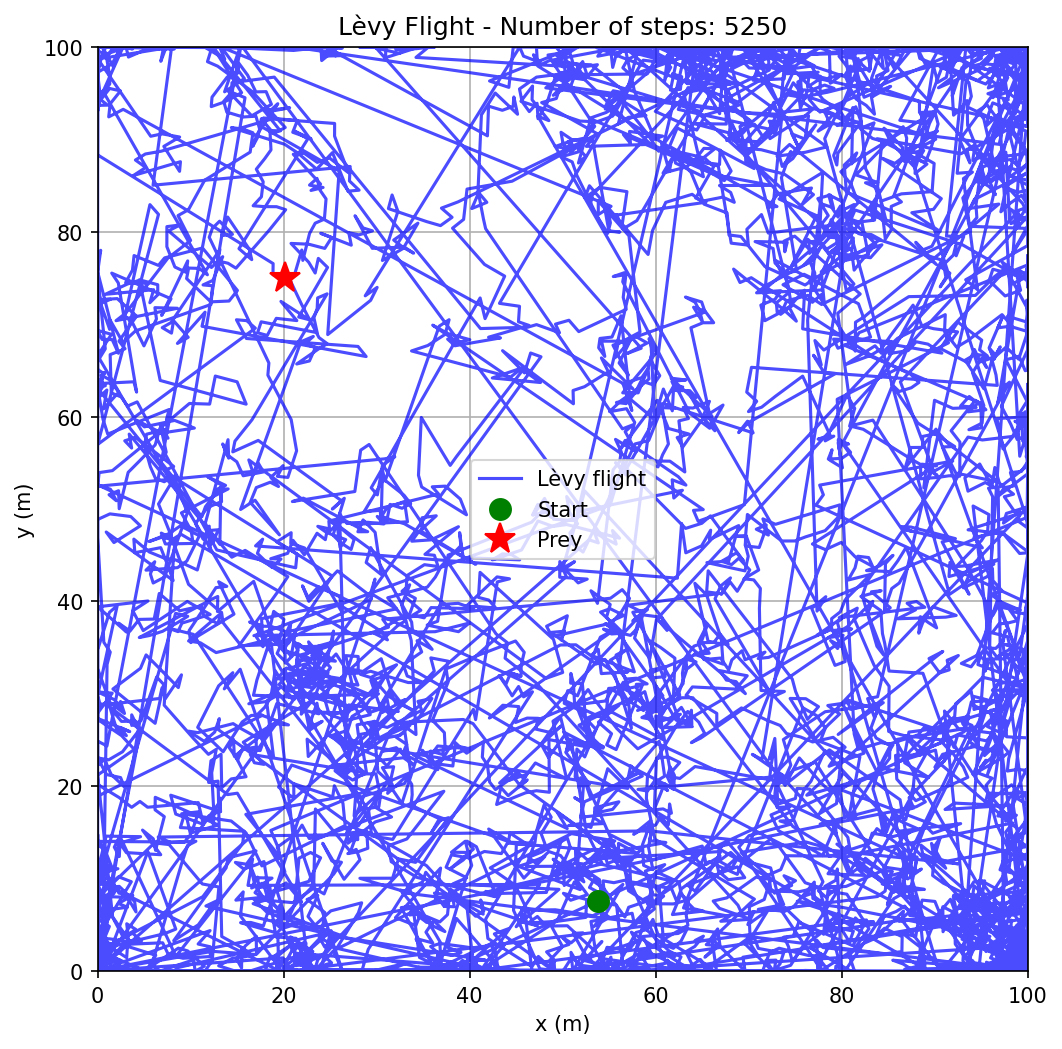
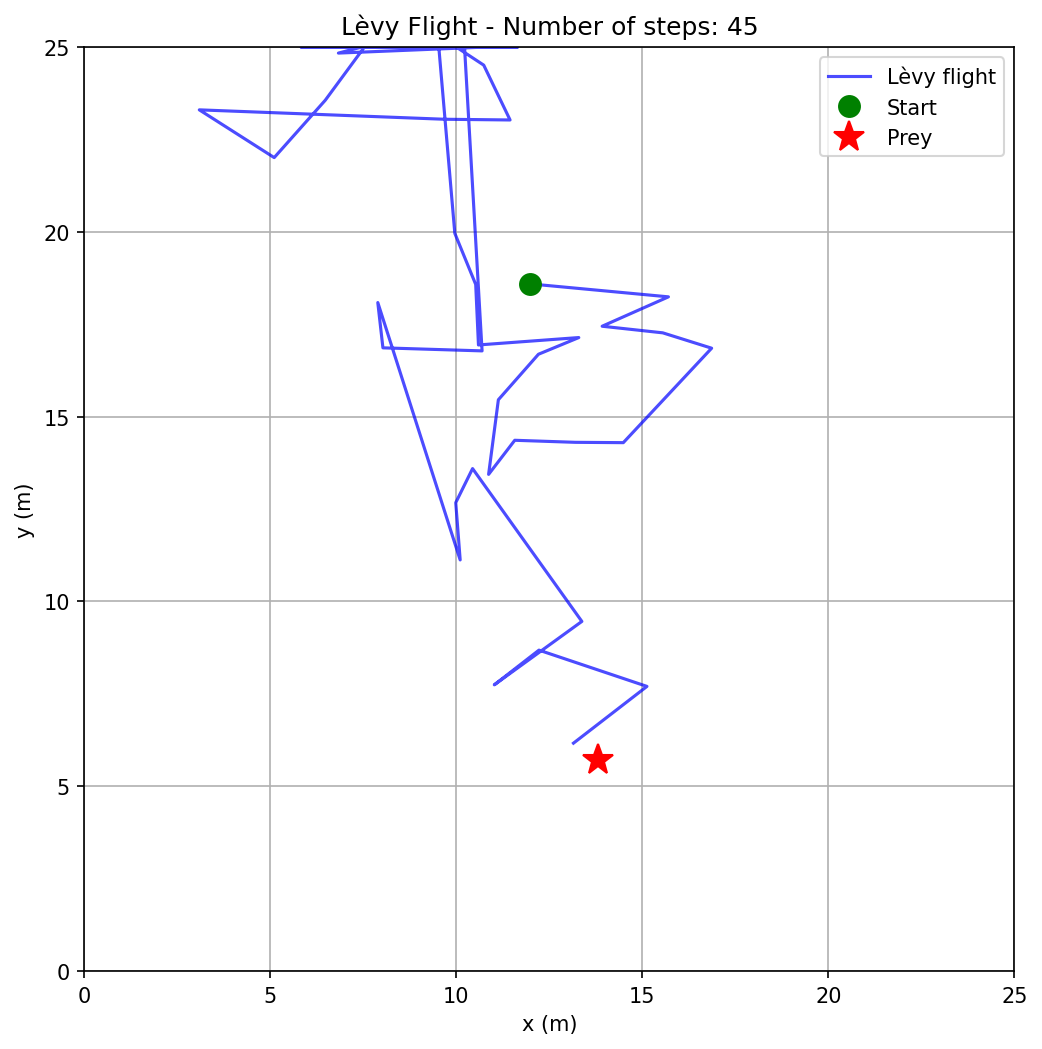
L25

diff --git a/Levy/Levy.py b/Levy/Levy.py
@@ -1,10 +1,10 @@
 import numpy as np
 import matplotlib.pyplot as plt
 
-L=100
+L=25
 N_pasos=100000
 alpha_0=2.0
-alpha_f=2.5
+alpha_f=2.4
 delta_alpha=0.01
 l_min=1.0 #necesario para normalizar la power law
 pasos=0

diff --git a/Levy/readdata.py b/Levy/readdata.py
@@ -2,10 +2,10 @@ import numpy as np
 
 import matplotlib.pyplot as plt
 
-L=100
+L=25
 N_pasos=100000
 alpha_0=2.0
-alpha_f=2.2
+alpha_f=2.4
 delta_alpha=0.01
 
 # Read the data file
